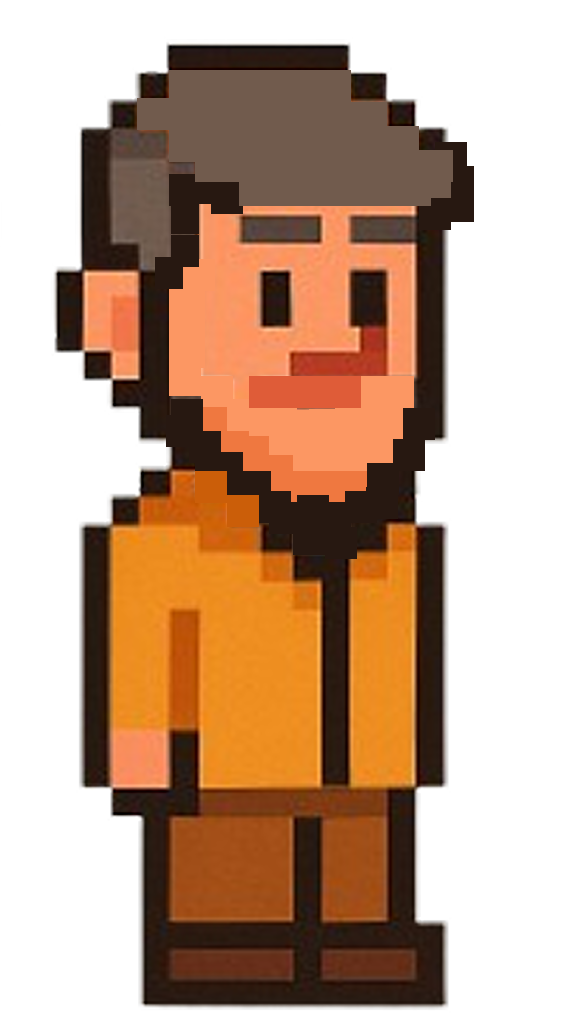
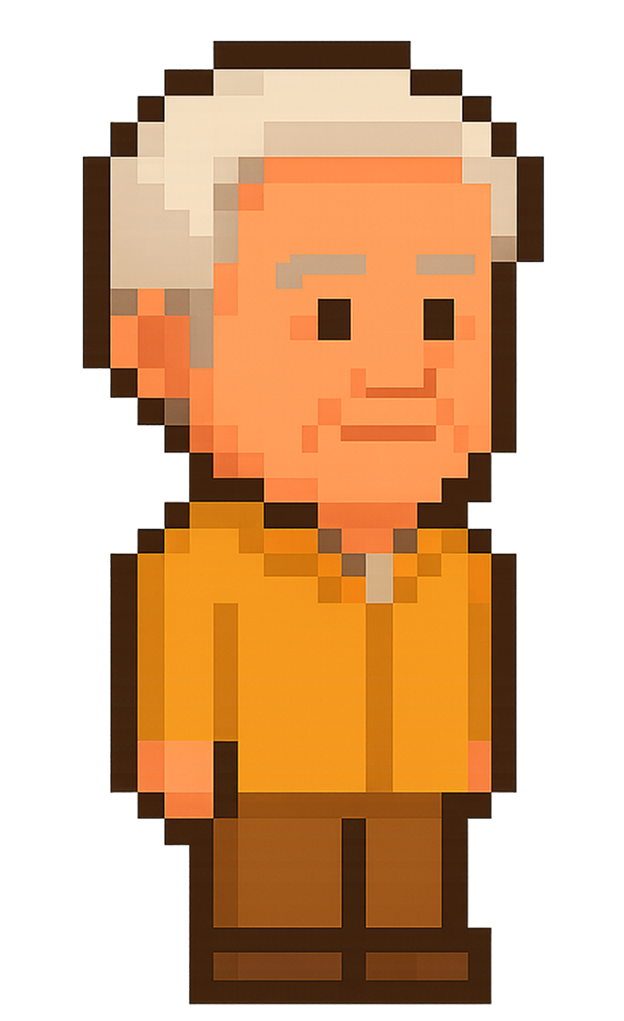
docs: README 업데이트 및 권영국 아바타 이미지 갱신 - 현재 프로젝트 상태에 맞게 README 전면 개편, 픽셀아트 마을 컨셉 반영, 권영국 후보 avatar_5.png 적용

diff --git a/README.md b/README.md
@@ -1,33 +1,136 @@
-# 2025 대선 공약 비교 웹서비스
+# 🏘 2025 대선 후보 마을
 
-2025년 대선, 복잡한 정치 정보를 쉽게 비교하고 이해할 수 있는 웹서비스입니다.
-정치를 잘 모르는 사람도 이해하기 쉽도록 구성했으며, 후보자들의 실시간 지지율과 공약을 한눈에 볼 수 있습니다.
+2025년 대선 후보들의 정치 정보를 재미있게 전달하는 픽셀 아트 스타일 웹사이트입니다.
+레트로 게임 감성으로 각 후보의 방을 구경하며 정책을 확인할 수 있습니다.
 
-## 주요 기능 🚀
+## ✨ 주요 기능
 
-- **실시간 D-Day 카운터**
-  - 2025년 6월 3일 대선일까지 남은 시간을 실시간으로 표시
-  - 일, 시간, 분, 초 단위로 세부 표시
+### 🏠 픽셀 아트 마을
+- **메인 화면**: 2D 탑뷰 스타일의 픽셀 아트 마을
+- **후보별 집**: 각 정당 색상으로 구분된 4개의 픽셀 집
+- **인터랙티브**: 집 클릭 시 해당 후보의 방으로 이동
+- **배경 이미지**: 고품질 픽셀 아트 배경 이미지 적용
 
-- **지지율 차트**
-  - FL Chart 라이브러리를 활용한 실시간 지지율 시각화
-  - 후보자별 색상 구분 및 호버 시 상세 수치 표시
-  - 반응형 레이아웃 지원
+### ⏰ 실시간 D-Day 카운터
+- 2025년 6월 3일 대선일까지 남은 시간 실시간 표시
+- **일수 + 시:분:초** 형식으로 정확한 카운트다운
+- 마을 우상단에 깔끔하게 배치
 
-- **후보자 정보**
-  - Glass Morphism 디자인이 적용된 카드 UI
-  - 후보자별 프로필 이미지 및 소속 정당 정보
-  - 확장 가능한 공약 목록 (경제, 노동, 복지 등)
+### 🎮 후보별 개인 방
+- **개별 배경**: 각 후보별로 다른 픽셀 아트 방 배경
+- **아바타 이미지**: 실제 후보 아바타 이미지 적용
+- **인터랙티브 오브젝트**: 클릭 가능한 가구들 (책장, 소파, 책상, 화분)
+- **정책 다이얼로그**: 오브젝트 클릭 시 정책 정보 팝업
 
-## 기술 스택 💻
+## 🎨 디자인 특징
 
-- **프레임워크**: Flutter Web
-- **상태 관리**: Provider
-- **차트**: FL Chart
-- **디자인**: Material Design 3
-- **폰트**: Google Fonts (Noto Sans KR)
-- **아이콘**: Flutter SVG, Cupertino Icons
+### 픽셀 아트 스타일
+- **레트로 게임 감성**: 8-bit 스타일의 픽셀 아트
+- **정당 색상 테마**: 
+  - 🔵 이재명 (더불어민주당) - 파란색
+  - 🔴 김문수 (국민의힘) - 빨간색  
+  - 🟠 이준석 (개혁신당) - 주황색
+  - 🟡 권영국 (진보당) - 노란색
 
-## 라이선스 📄
+### UI/UX
+- **반응형 디자인**: 다양한 화면 크기 지원
+- **직관적 네비게이션**: 클릭 한 번으로 이동
+- **레트로 폰트**: monospace 폰트로 게임 감성 연출
+- **부드러운 애니메이션**: 호버 효과 및 전환 애니메이션
+
+## 🛠 기술 스택
+
+### Frontend
+- **Flutter Web**: 크로스 플랫폼 웹 개발
+- **Dart**: 프로그래밍 언어
+- **Material Design**: UI 컴포넌트
+
+### Assets
+- **픽셀 아트 이미지**: 메인 배경, 후보별 방 배경
+- **아바타 이미지**: 후보별 개인 아바타
+- **커스텀 픽셀 위젯**: Container 기반 픽셀 아트 구현
+
+### 배포
+- **Vercel**: 자동 배포 및 호스팅
+- **Git**: 버전 관리 및 CI/CD
+
+## 📁 프로젝트 구조
+
+```
+lib/
+├── main.dart                    # 앱 진입점
+├── screens/
+│   ├── candidate_rooms_page.dart    # 메인 마을 화면
+│   └── candidate_room_detail.dart   # 후보별 방 상세 화면
+└── assets/
+    └── images/
+        ├── main_background.png      # 메인 마을 배경
+        ├── room_background_1.png    # 이재명 방 배경
+        ├── room_background_2.png    # 김문수 방 배경
+        ├── room_background_4.png    # 이준석 방 배경
+        ├── room_background_5.png    # 권영국 방 배경
+        ├── avatar_1.png            # 이재명 아바타
+        ├── avatar_2.png            # 김문수 아바타
+        ├── avatar_4.png            # 이준석 아바타
+        └── avatar_5.png            # 권영국 아바타
+```
+
+## 🚀 시작하기
+
+### 필요 조건
+- Flutter SDK (3.0.0 이상)
+- Chrome 브라우저 (웹 실행용)
+
+### 설치 및 실행
+```bash
+# 저장소 클론
+git clone https://github.com/jangjia01234/politics-web-flutter.git
+
+# 프로젝트 디렉토리로 이동
+cd politics-web-flutter
+
+# 의존성 설치
+flutter pub get
+
+# 웹에서 실행
+flutter run -d chrome --web-port=5000
+```
+
+### 브라우저에서 확인
+```
+http://localhost:5000
+```
+
+## 🎯 주요 후보
+
+| 후보 | 정당 | 색상 | 배경 이미지 | 아바타 |
+|------|------|------|-------------|--------|
+| 이재명 | 더불어민주당 | 🔵 파란색 | room_background_1.png | avatar_1.png |
+| 김문수 | 국민의힘 | 🔴 빨간색 | room_background_2.png | avatar_2.png |
+| 이준석 | 개혁신당 | 🟠 주황색 | room_background_4.png | avatar_4.png |
+| 권영국 | 진보당 | 🟡 노란색 | room_background_5.png | avatar_5.png |
+
+## 🔧 개발 히스토리
+
+### v1.0 - 픽셀 아트 마을 구현
+- 메인 화면 픽셀 아트 마을 구현
+- 4개 후보별 집 및 나무 픽셀 아트
+- D-Day 카운터 기본 기능
+
+### v2.0 - 세부 페이지 및 이미지 적용
+- 후보별 개인 방 페이지 구현
+- 배경 이미지 및 아바타 이미지 적용
+- 인터랙티브 오브젝트 및 정책 다이얼로그
+
+### v3.0 - UI/UX 개선 및 최적화
+- D-Day 카운터 시:분:초 표시 추가
+- 집 크기 2배 확대 (더 선명한 픽셀 아트)
+- 에러 처리 개선 및 불필요한 코드 정리
+
+## 📄 라이선스
 
 이 프로젝트는 MIT 라이선스 하에 공개되어 있습니다.
+
+---
+
+**🗳 2025년 대선, 재미있게 알아보세요!**
